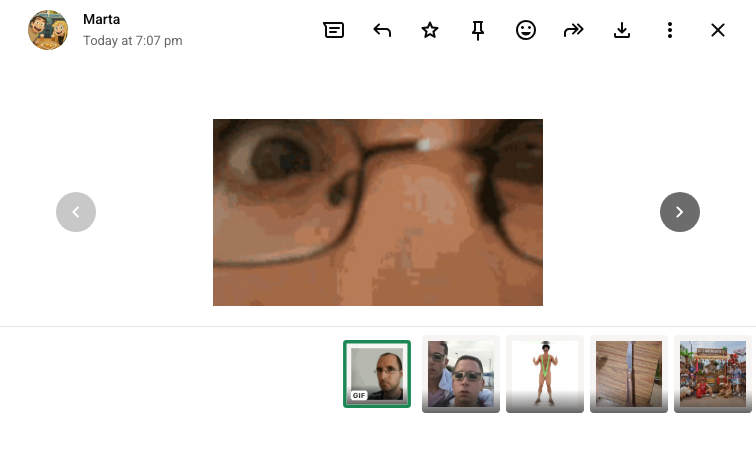
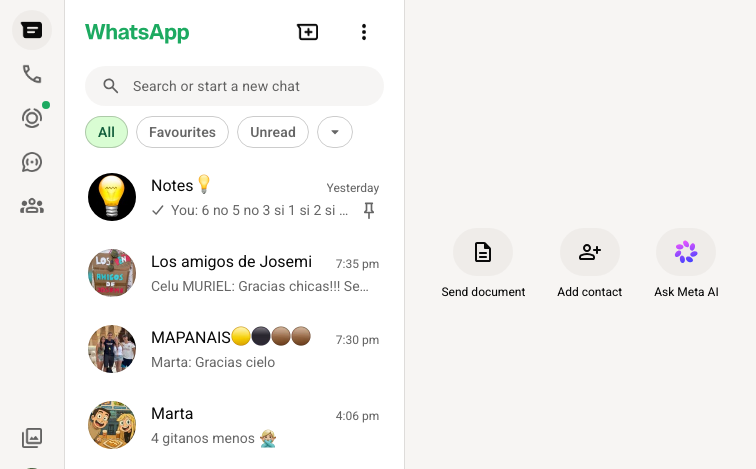
Type group query directly into visual search bar and capture post-search screenshot

diff --git a/index.js b/index.js
@@ -123,7 +123,6 @@ async function limpiarPantallaWhatsApp(page) {
         } catch (e) {}
     }
 
-    // Hacer clic en los botones de cierre X o ir al icono de Chats
     try {
         await page.evaluate(() => {
             const elements = Array.from(document.querySelectorAll('button, div[role="button"], span'));
@@ -139,36 +138,52 @@ async function limpiarPantallaWhatsApp(page) {
 }
 
 /**
- * Busca un grupo mediante WWebJS.searchChats y Store.Search dentro del contexto del navegador
+ * Busca un grupo escribiendo en el buscador visual de WhatsApp Web y leyendo el Store resultante
  */
 async function buscarGrupoPorNombreSeguro(client, targetGroupName) {
     const page = client.pupPage;
 
     await limpiarPantallaWhatsApp(page);
 
-    console.log(`    ↳ Buscando "${targetGroupName}" en la API interna de WhatsApp Web...`);
+    console.log(`    ↳ Escribiendo "${targetGroupName}" en la barra de búsqueda de WhatsApp Web...`);
 
-    const result = await page.evaluate(async (targetName) => {
+    try {
+        // Encontrar el selector del input de búsqueda ("Search or start a new chat")
+        const searchInputSelector = 'div[contenteditable="true"][data-tab="3"], div[contenteditable="true"], p.selectable-text, p.aria-placeholder';
+        
+        await page.waitForSelector(searchInputSelector, { timeout: 8000 });
+        await page.click(searchInputSelector);
+        await new Promise(r => setTimeout(r, 500));
+
+        // Limpiar y escribir el nombre del grupo
+        await page.keyboard.down('Meta');
+        await page.keyboard.press('A');
+        await page.keyboard.up('Meta');
+        await page.keyboard.press('Backspace');
+        
+        await page.keyboard.type(targetGroupName, { delay: 60 });
+        console.log(`    ↳ Término introducido en la búsqueda. Esperando a que WhatsApp cargue los resultados...`);
+        
+        await new Promise(r => setTimeout(r, 3000));
+
+        // Guardar captura para verificación visual de los resultados de búsqueda
+        const screenPath = path.resolve('./whatsapp_screen.png');
+        try { await page.screenshot({ path: screenPath }); } catch (e) {}
+
+    } catch (err) {
+        console.warn('    ↳ Advertencia interactuando con el buscador UI:', err.message);
+    }
+
+    // Inspeccionar los chats en Store.Chat tras realizar la búsqueda
+    const result = await page.evaluate((targetName) => {
         const normTarget = targetName.trim().toLowerCase();
-
-        // Forzar búsqueda mediante WWebJS.searchChats o Store.Search
-        try {
-            if (window.WWebJS && window.WWebJS.searchChats) {
-                await window.WWebJS.searchChats(targetName);
-            } else if (window.Store && window.Store.Search && window.Store.Search.search) {
-                await window.Store.Search.search(targetName);
-            }
-        } catch (e) {}
-
-        await new Promise(r => setTimeout(r, 1500));
+        const debugInfo = [];
+        let foundGroup = null;
 
         let chats = [];
         if (window.Store && window.Store.Chat) {
             chats = window.Store.Chat.getModelsArray ? window.Store.Chat.getModelsArray() : (window.Store.Chat.models || []);
         }
-
-        const debugInfo = [];
-        let foundGroup = null;
 
         for (const chat of chats) {
             let name = '';
@@ -212,14 +227,8 @@ async function buscarGrupoPorNombreSeguro(client, targetGroupName) {
         return { foundGroup, debugInfo };
     }, targetGroupName);
 
-    // Guardar captura de pantalla actualizada tras limpiar y buscar
-    const screenPath = path.resolve('./whatsapp_screen.png');
-    try {
-        await page.screenshot({ path: screenPath });
-    } catch (e) {}
-
     if (result && result.debugInfo && result.debugInfo.length > 0) {
-        console.log('    [DIAGNÓSTICO] Grupos detectados tras la búsqueda:');
+        console.log('    [DIAGNÓSTICO] Grupos detectados tras la búsqueda UI:');
         result.debugInfo.forEach(g => console.log(`      - "${g.name}" (ID: ${g.id})`));
     }
 
